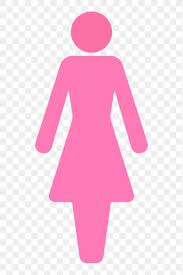
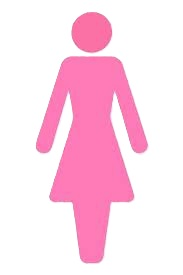
added gender switch image logic and resize model images

diff --git a/spookathon/public/helper.js b/spookathon/public/helper.js
@@ -1,59 +1,58 @@
 // helper.js
-
 document.addEventListener("DOMContentLoaded", () => {
-  console.log("helper.js loaded ");
+  console.log("helper.js loaded ✅");
 
-  // Get form elements
-  const price = document.getElementById("price");
-  const age = document.getElementById("age");
-  const idea = document.querySelector(".idea-input");
-  const submitBtn = document.querySelector(".submit-btn");
+  // ----- Grab elements -----
+  const price       = document.getElementById("price");            // <input type="number">
+  const idea        = document.querySelector(".idea-input");       // textarea
+  const submitBtn   = document.querySelector(".submit-btn");       // button
+  const gender      = document.getElementById("gender");           // <select>
+  const personImage = document.getElementById("person-image");     // <img>
 
-  // --- Prevent scientific notation characters ---
-  document.addEventListener("DOMContentLoaded", () => {
-    const price = document.getElementById("price");
-
-  // Block invalid keys (scientific notation and math signs)
-  price.addEventListener("keydown", (e) => {
-    if (["e", "E", "+", "-"].includes(e.key)) e.preventDefault();
-  });
-
-  // Also filter out pasted input or other invalid text
-  price.addEventListener("input", () => {
-    price.value = price.value.replace(/[^\d.]/g, "");
-  });
-})
-
-  // --- Only allow numbers and dot for price ---
-  price.addEventListener("input", () => {
-    price.value = price.value.replace(/[^\d.]/g, "");
-  });
-
-  // --- Handle submit button click ---
-  submitBtn.addEventListener("click", () => {
-    const ideaText = idea.value.trim();
-    if (ideaText === "") {
-      alert("Please enter your costume idea first!");
-      return;
-    }
-
-    console.log("Submitted idea:", ideaText);
-    idea.value = ""; // clear text area
-  });
-    if (genderInput && personImage) {
-    genderInput.addEventListener("input", () => {
-      const value = genderInput.value.toLowerCase();
-
-      if (value === "male") {
-        personImage.src = "Body.png";
-      } 
-      else if (value === "female") {
-        personImage.src = "femaleIcon.jpg";
-      } 
-      else {
-        personImage.src = "Body.png"; // default
-      }
+  // ===== PRICE: block scientific notation & sanitize =====
+  if (price) {
+    // block typing e/E/+/- in number inputs
+    price.addEventListener("keydown", (e) => {
+      if (["e", "E", "+", "-"].includes(e.key)) e.preventDefault();
+    });
+    // strip any pasted/typed non-digits/dot
+    price.addEventListener("input", () => {
+      price.value = price.value.replace(/[^\d.]/g, "");
     });
   }
-});
 
+  // ===== SUBMIT IDEA =====
+  if (submitBtn && idea) {
+    submitBtn.addEventListener("click", () => {
+      const txt = idea.value.trim();
+      if (!txt) {
+        alert("Please enter your costume idea first!");
+        return;
+      }
+      console.log("Submitted idea:", txt);
+      idea.value = "";
+    });
+  }
+
+  // ===== GENDER -> swap image =====
+  if (gender && personImage) {
+    const SRC = {
+      male:   "transparentMale.png",
+      female: "transparentFemale.png",
+      "":     "transparentMale.png", // default
+    };
+
+    const updateImage = () => {
+      const v = (gender.value || "").toLowerCase();
+      personImage.src = SRC[v] ?? SRC[""];
+      personImage.alt =
+        v === "female" ? "Female Person Icon" :
+        v === "male"   ? "Male Person Icon"   :
+                         "Person Icon";
+    };
+
+    gender.addEventListener("change", updateImage);
+    gender.addEventListener("input",  updateImage); // some browsers fire input
+    updateImage(); // set initial image
+  }
+});

diff --git a/spookathon/public/index.html b/spookathon/public/index.html
@@ -22,21 +22,24 @@
     <label for="price" class="price-label">Price ($)</label>
     <input type="number" id="price" class="pumpkin-field" placeholder="Enter amount" min="0" />
   </div>
-  <div class="price-wrap">
-    <label for="age" class="price-label">Age</label>
-    <input type="number" id="age" class="pumpkin-field" placeholder="Enter age" min="0" />
-  </div>
   <div class="btns">
-            <label for="gender" class="price-label">Category</label>
-        <select id="gender" class="pumpkin-field">
-          <option value="male">Male</option>
-          <option value="female">Female</option>
+            <label for="age" class="price-label">Age</label>
+        <select id="age" class="pumpkin-field">
+          <option value="Adult">Adult</option>
+          <option value="Kid">Kid</option>
         </select>
   </div>
+  <div class="btns">
+    <label for="gender" class="price-label">Gender</label>
+<select id="gender" class="pumpkin-field">
+  <option value="">Select Gender</option>
+  <option value="male">Male</option>
+  <option value="female">Female</option>
+</select>
+
+<img id="person-image" src="transparentMale.png" alt="Person Icon" class="img">
+</div>
       </div>
-      <section id="ideas" style="margin-top:32px;"></section>
-    </main>
-       <img id="person-image" src="Body.png" alt="Person Icon" class="img"/>
 
     <main> 
   <div class="idea-box">

diff --git a/spookathon/public/style.css b/spookathon/public/style.css
@@ -8,7 +8,7 @@
       }
 /* pumpkin field sizes */
 :root {  
-  --field-w: 300px;
+  --field-w: clamp(100px, 50vw, 200px);
   --field-h: 48px;
   --field-pad-x: 16px;
 }
@@ -24,7 +24,9 @@
         flex-direction: column;
         align-items: flex-start; 
         gap: 12px;
-        flex-wrap: wrap; 
+        flex-wrap: wrap;
+        width: 100%;
+        max-width: var(--field-w);
 }
 /* .btn {
         padding: 12px 16px; border-radius: 999px; border: 1px solid #2a2a2a;
@@ -69,7 +71,8 @@
         gap: 6px;
         margin-top: 20px;
         width:100%;
-        max-width:200px;
+        max-width: var(--field-w);
+        box-sizing: border-box;
       }
 
       .price-label
@@ -184,4 +187,13 @@ input.pumpkin-field[type="number"]::-webkit-inner-spin-button{
   -webkit-appearance: none;
   appearance: none;
   margin: 0; 
+}
+
+#person-image {
+  width: 250px;           /* fixed display box */
+  height: 250px;          /* same for both */
+  object-fit: contain;    /* keeps aspect ratio */
+  object-position: center;
+  display: block;
+  margin: 20px auto;      /* center it */
 }
